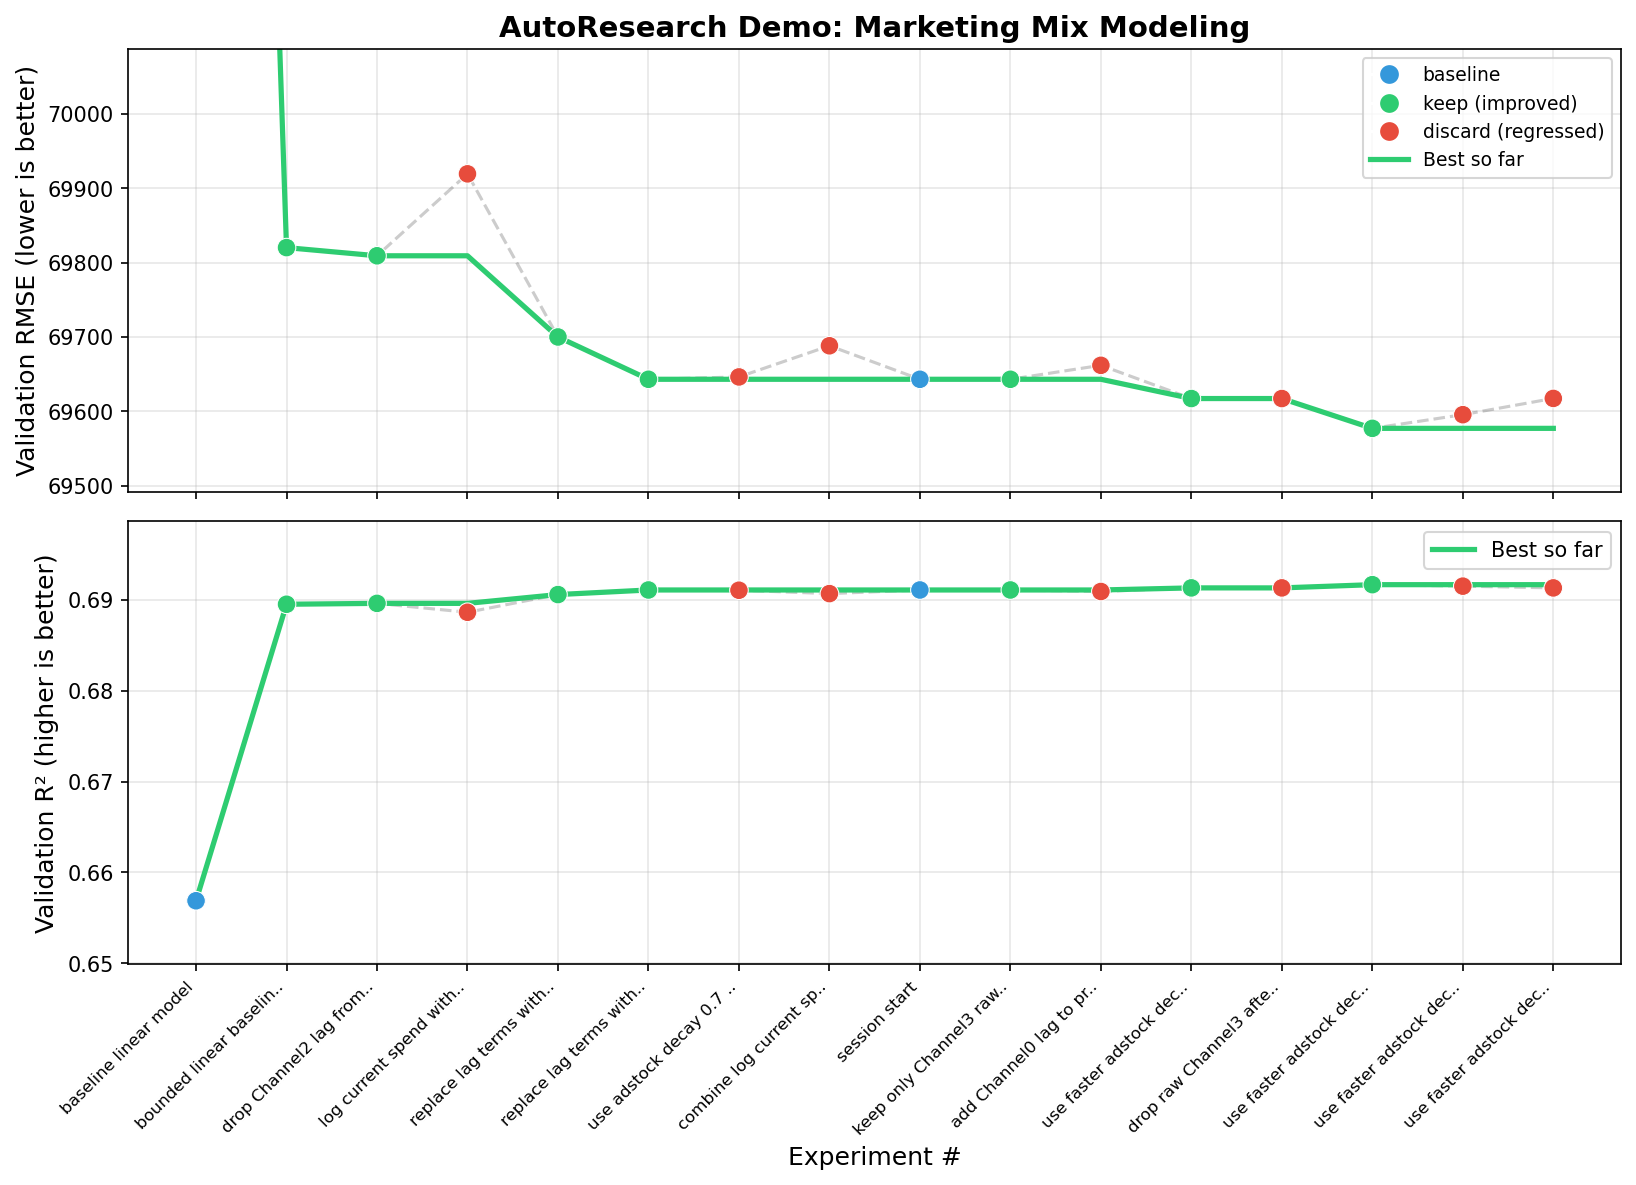
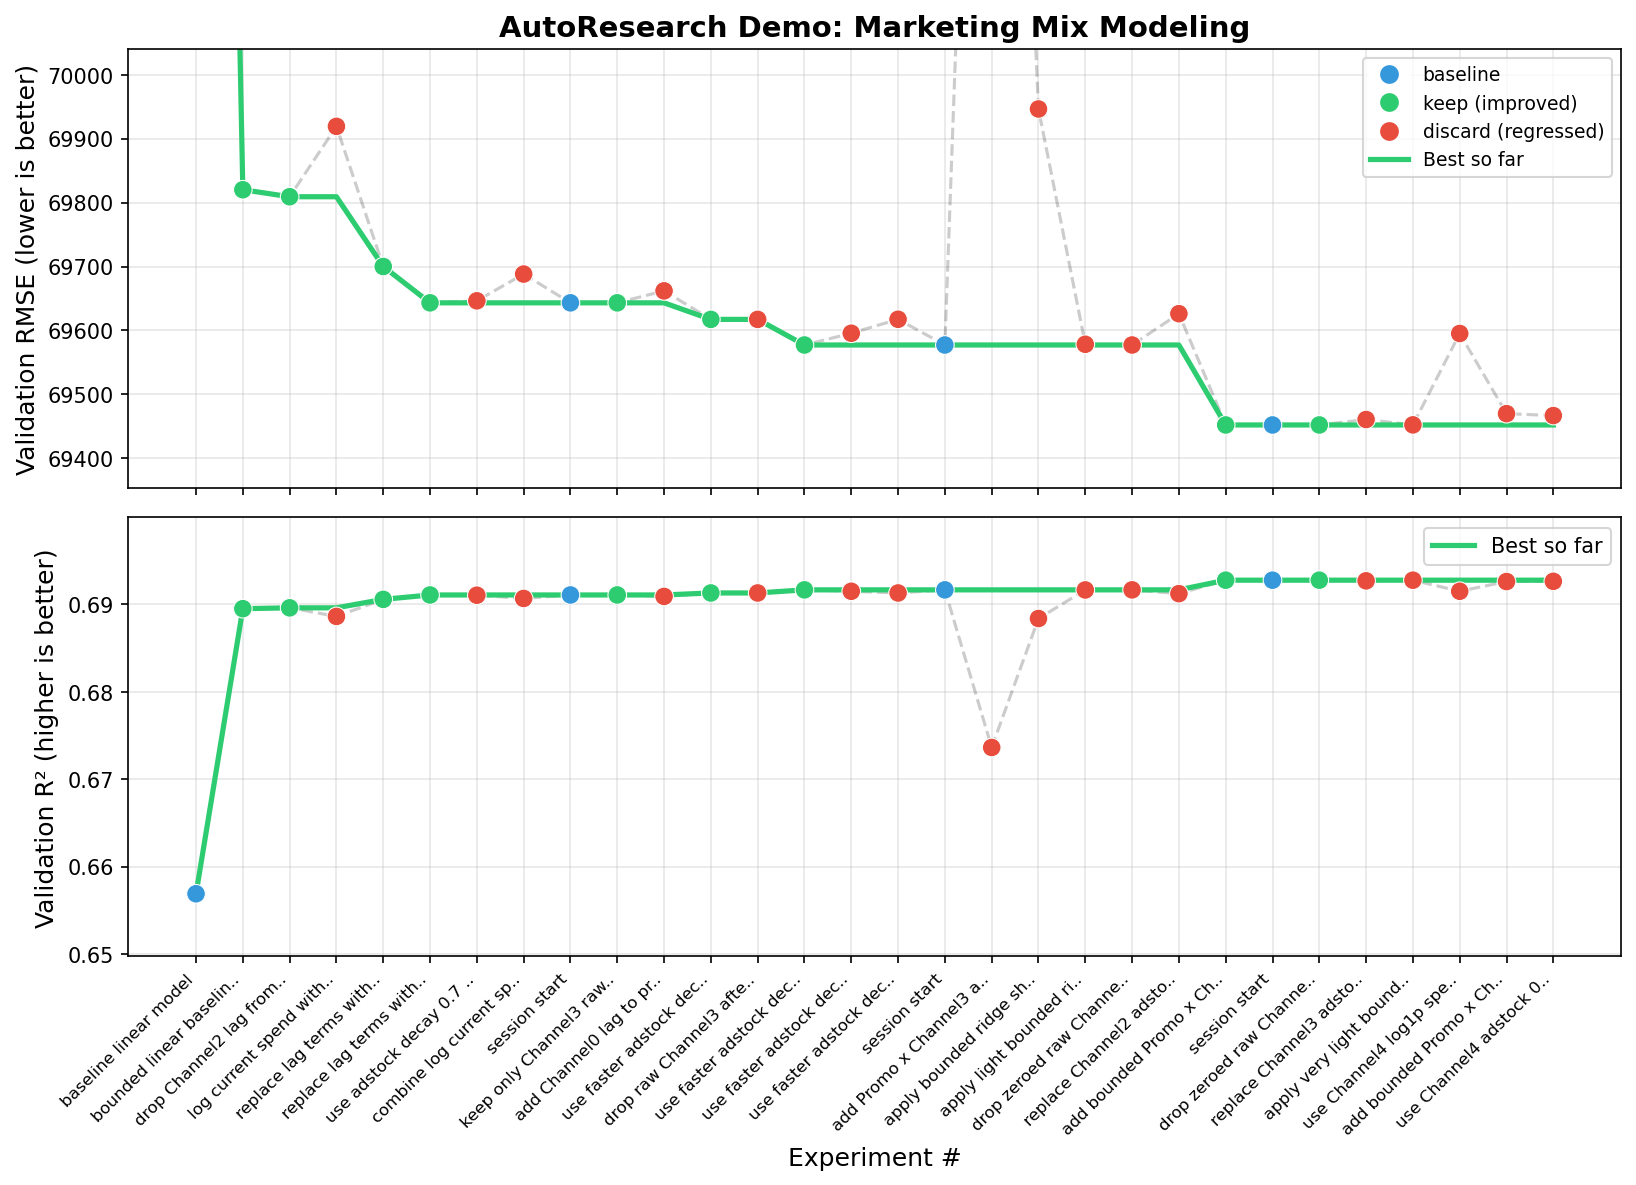
edits

diff --git a/model.py b/model.py
@@ -116,13 +116,11 @@ def build_model():
         "Channel0_spend_adstock_07",
         "Channel1_spend_adstock_07",
         "Channel2_spend_adstock_07",
-        "Channel3_spend_adstock_03",
         "Channel4_spend_adstock_03",
     ]
 
     control_features = [
         "competitor_sales_control",
-        "sentiment_score_control",
         "Promo",
         "week_sin",
         "week_cos",

diff --git a/prepare.py b/prepare.py
@@ -14,7 +14,7 @@ import re
 SESSION_MARKER_FILE = ".current_session"
 RESULTS_FILE_TEMPLATE = "results_{session_id}.tsv"
 PERFORMANCE_FILE_TEMPLATE = "performance_{session_id}.png"
-CURATED_CUMULATIVE_SESSIONS = [3, 5]
+CURATED_CUMULATIVE_SESSIONS = [3, 5, 7, 8]
 CURATED_CUMULATIVE_RESULTS_FILE = "results_cumulative.tsv"
 CURATED_CUMULATIVE_PERFORMANCE_FILE = "performance_cumulative.png"
 